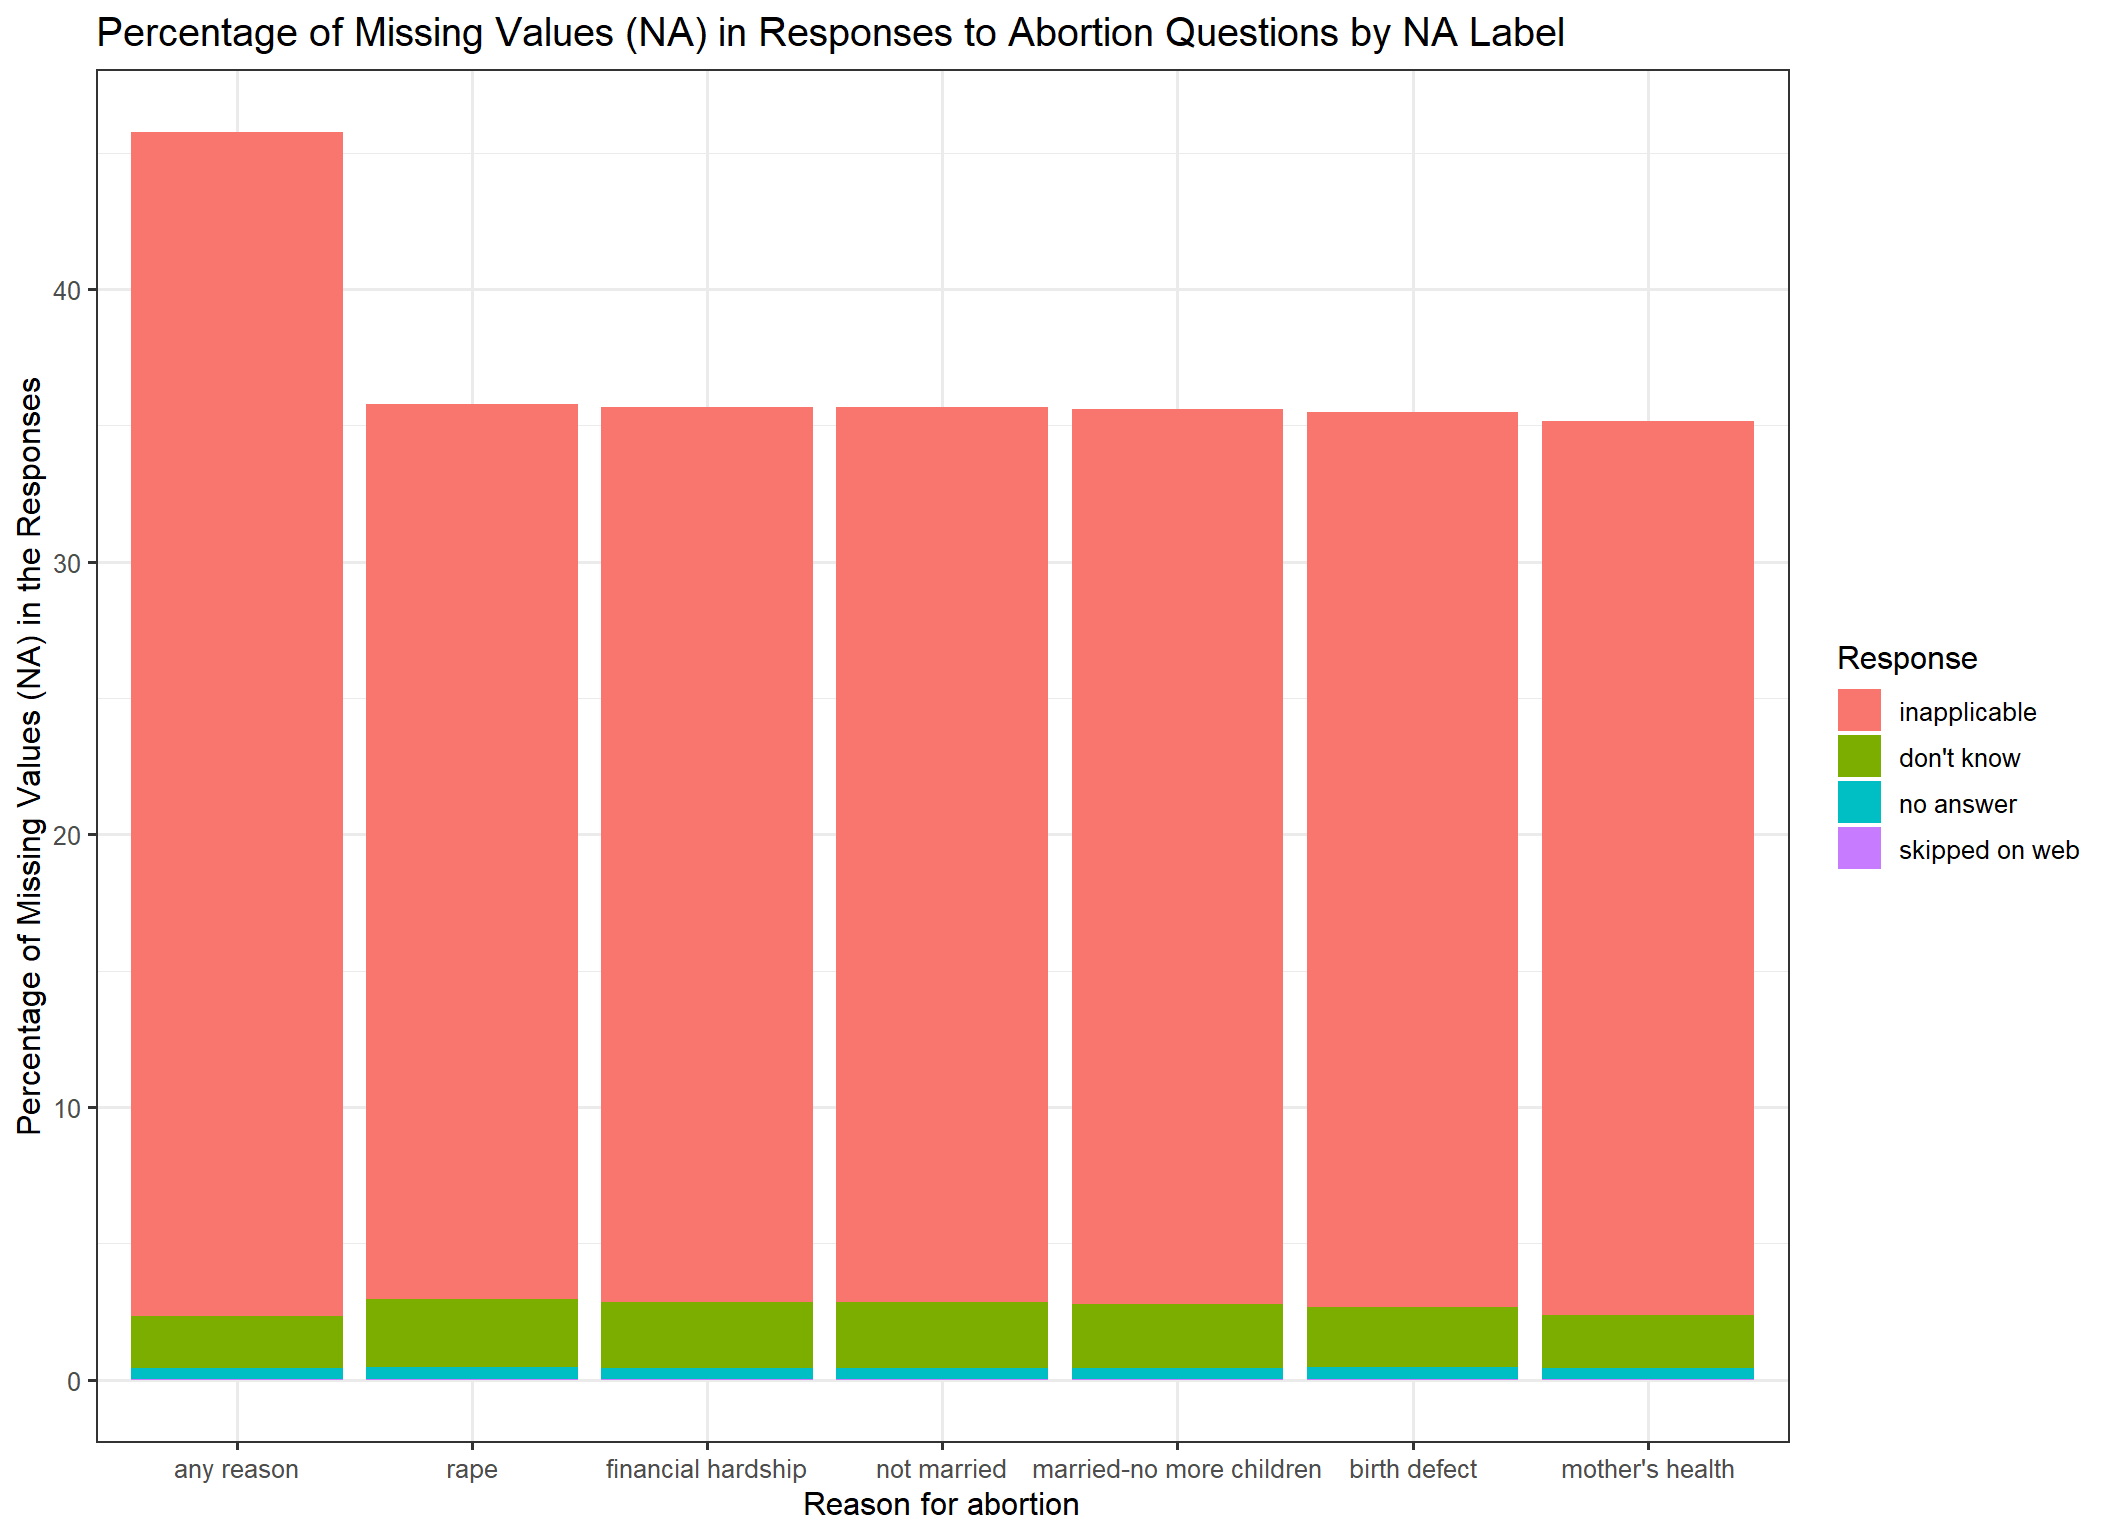
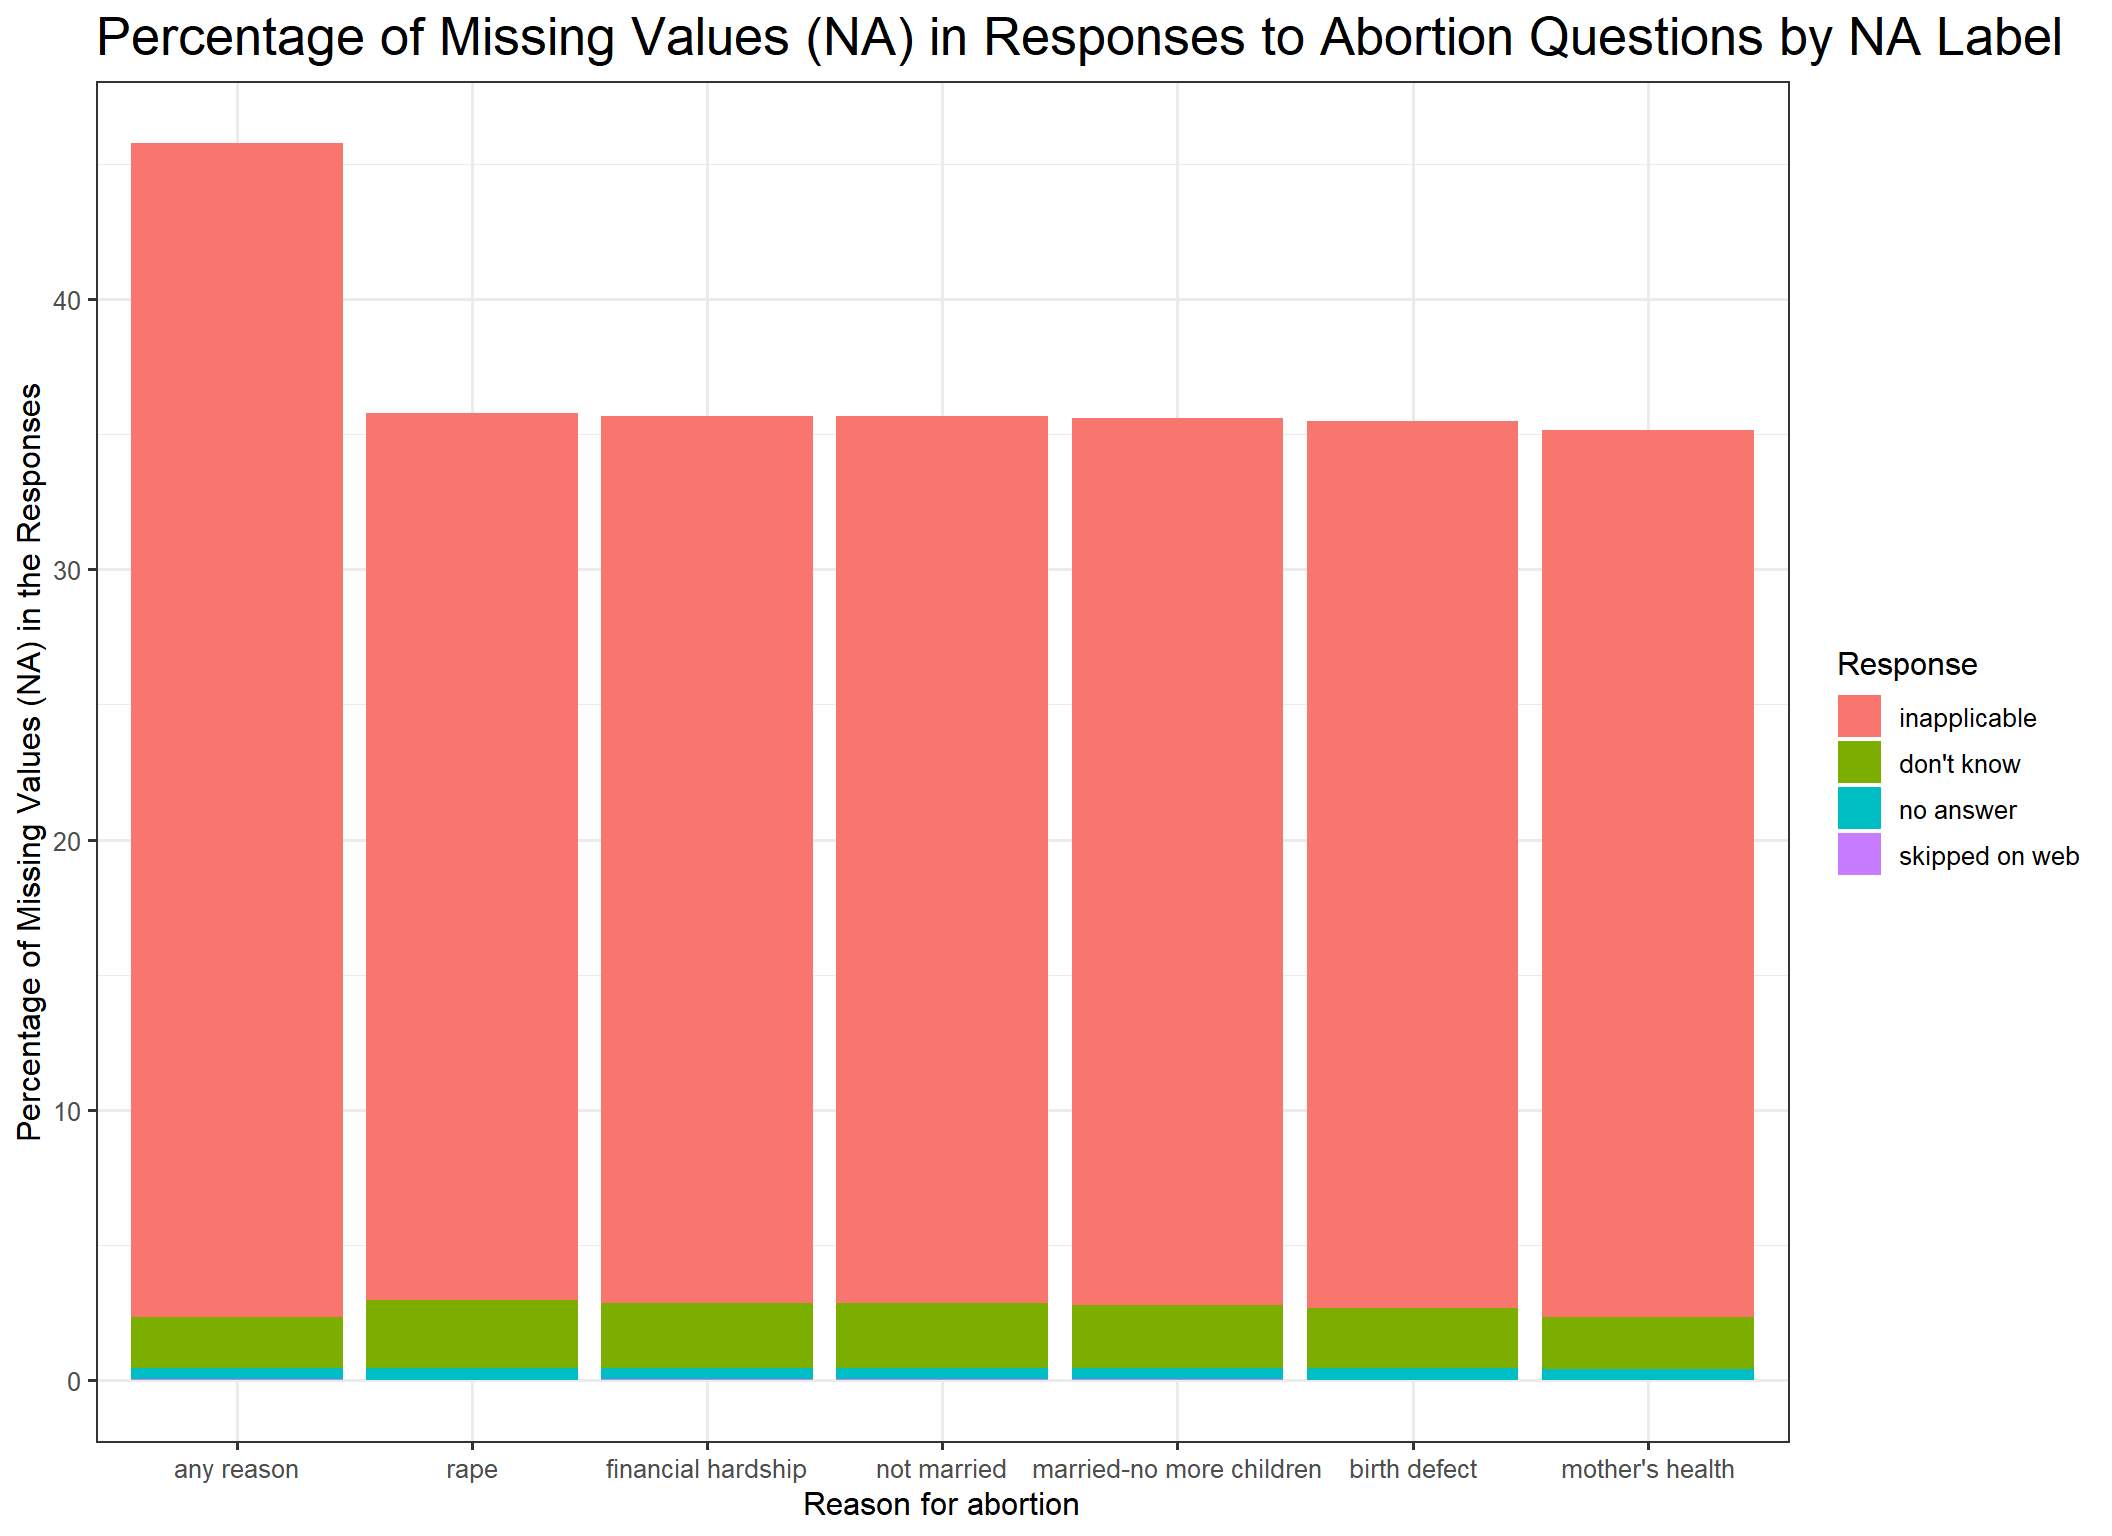
rendered

diff --git a/docs/data.html b/docs/data.html
@@ -311,7 +311,7 @@ pre > code.sourceCode > span > a:first-child::before { text-decoration: underlin
 <span id="cb2-37"><a href="#cb2-37" aria-hidden="true" tabindex="-1"></a>  <span class="fu">geom_col</span>() <span class="sc">+</span></span>
 <span id="cb2-38"><a href="#cb2-38" aria-hidden="true" tabindex="-1"></a>  <span class="fu">labs</span>(<span class="at">x =</span> <span class="st">"Reason for abortion"</span>, <span class="at">y =</span> <span class="st">"Percentage of Missing Values (NA) in the Responses"</span>, <span class="at">title =</span> <span class="st">"Percentage of Missing Values (NA) in Responses to Abortion Questions by NA Label"</span>, <span class="at">fill =</span> <span class="st">"Response"</span>) <span class="sc">+</span></span>
 <span id="cb2-39"><a href="#cb2-39" aria-hidden="true" tabindex="-1"></a>  <span class="fu">theme_bw</span>(<span class="dv">12</span>) <span class="sc">+</span></span>
-<span id="cb2-40"><a href="#cb2-40" aria-hidden="true" tabindex="-1"></a>  <span class="fu">theme</span>(<span class="at">plot.title =</span> <span class="fu">element_text</span>( <span class="at">size =</span> <span class="dv">15</span>))</span></code><button title="Copy to Clipboard" class="code-copy-button"><i class="bi"></i></button></pre></div>
+<span id="cb2-40"><a href="#cb2-40" aria-hidden="true" tabindex="-1"></a>  <span class="fu">theme</span>(<span class="at">plot.title =</span> <span class="fu">element_text</span>( <span class="at">size =</span> <span class="dv">20</span>))</span></code><button title="Copy to Clipboard" class="code-copy-button"><i class="bi"></i></button></pre></div>
 </details>
 <div class="cell-output-display">
 <p><img src="data_files/figure-html/unnamed-chunk-2-1.png" class="img-fluid" width="1056"></p>
